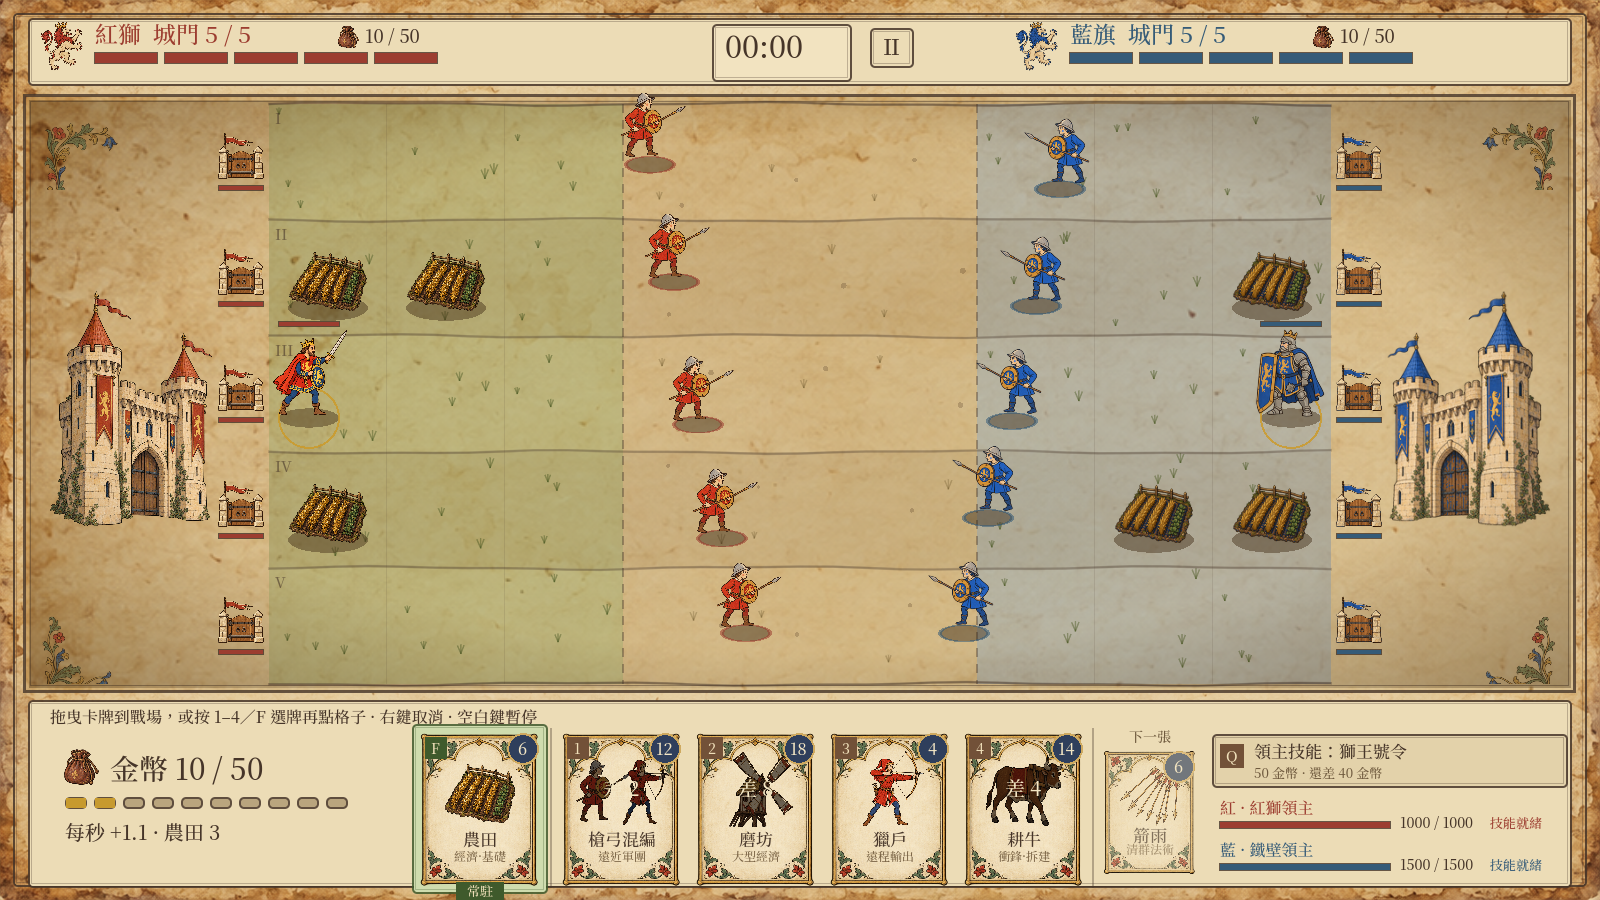
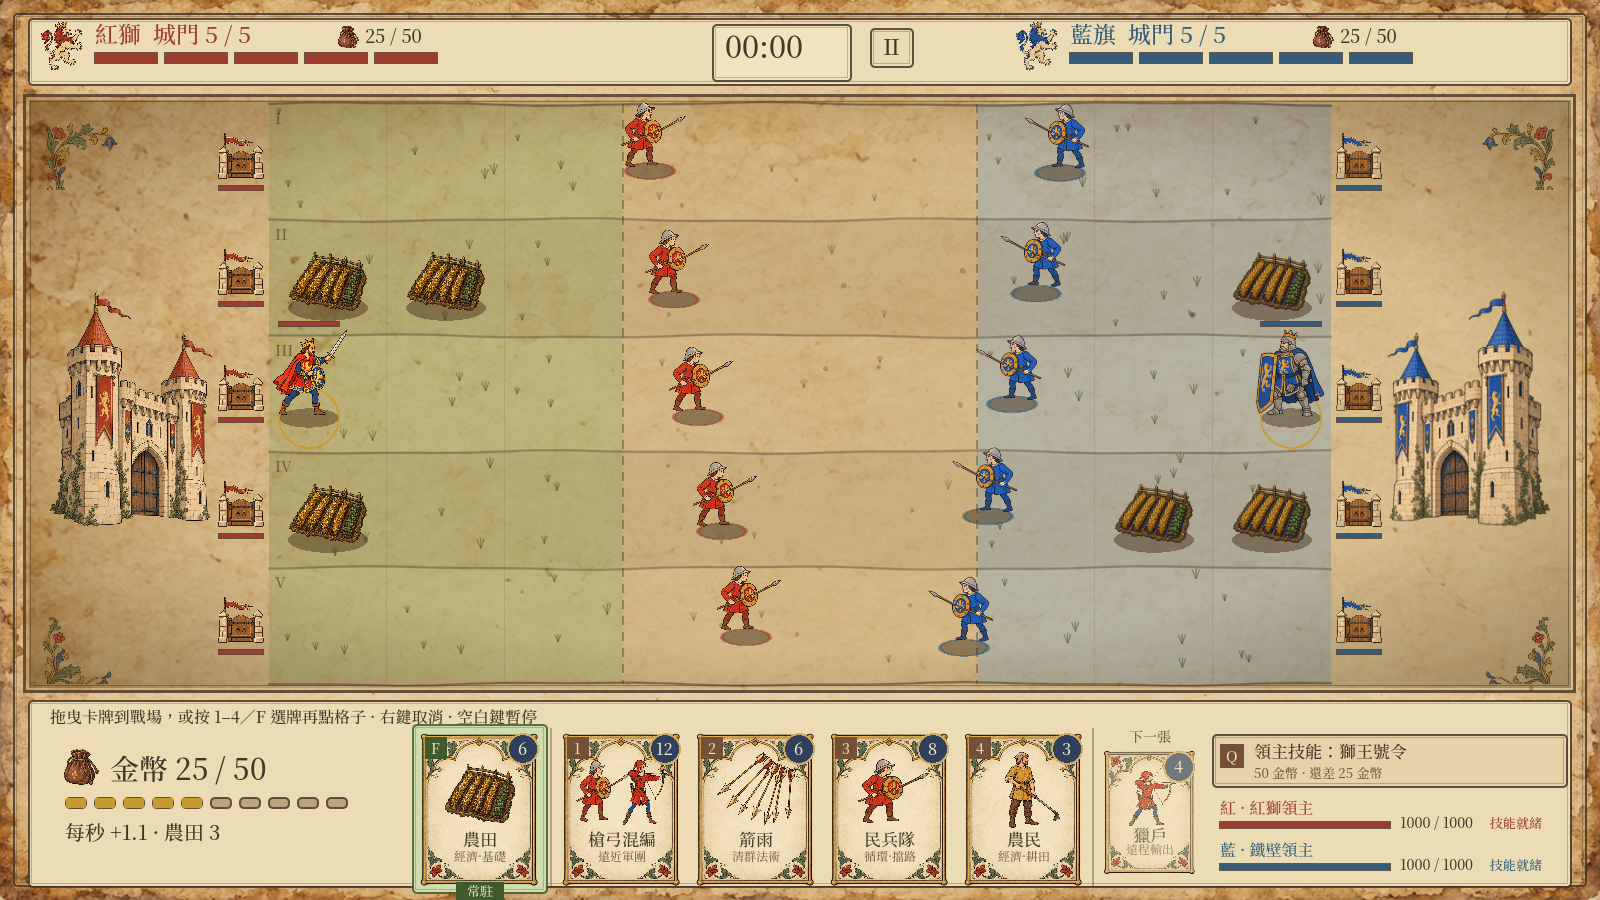
All lords 1000 HP (iron 1500 -> 1000)
Lords now differ only in attack and skill; a test keeps their health
equal. 395 checks pass.

diff --git a/docs/企劃書.md b/docs/企劃書.md
@@ -9,6 +9,7 @@
 >   - **卡牌只分三類：部隊、建築、法術。部隊一律往敵方前進，不會回頭。**
 >   - **領主完全由 AI 接管**（雙方），沒有手動操作。
 > - v4.1：**金幣上限 10 → 50**。金幣數字整體 ×2（費用、回復、產量），讓費用分得更細；出牌冷卻、AI 門檻、介面跟著調整。
+> - v6.9（2026-10-29）：三位領主血量統一 1000（鐵壁 1500 → 1000），差別只在普攻與技能。
 > - v6.8（2026-10-29）：開局金幣 10 → 25（雙方）。
 > - v6.7（2026-10-29）：**戰場畫面調整（減少刺眼、突出重點）**：整頁紙張壓暗；戰場分區上色（我方草地綠、中間沙地、敵方淡藍，依美術方向圖）；格子內加草叢與小石子；戰場四周暗角；拿掉常駐斜線，選牌時才用金框標出可放的格子；單位放大 15%、腳下改成隊色底座；單位與建築滿血時不顯示血條。
 > - v6.6（2026-10-29）：**領主刪除被動效果（光環、農田加成、雙倍回血），改成主動技能**：按 Q 或點技能鈕，花 50 金幣、冷卻 60 秒，領主倒下時不能用；AI 會存錢發動。紅獅「獅王號令」：五路各召喚一名騎士從前線進攻。豐收「豐年祭」：每路各種一塊農田（有空格時），全部農田回滿血、產量加倍 30 秒。鐵壁「重築城牆」：五座城門回滿血（已破的重建），拆殘垣的敵兵重來。
